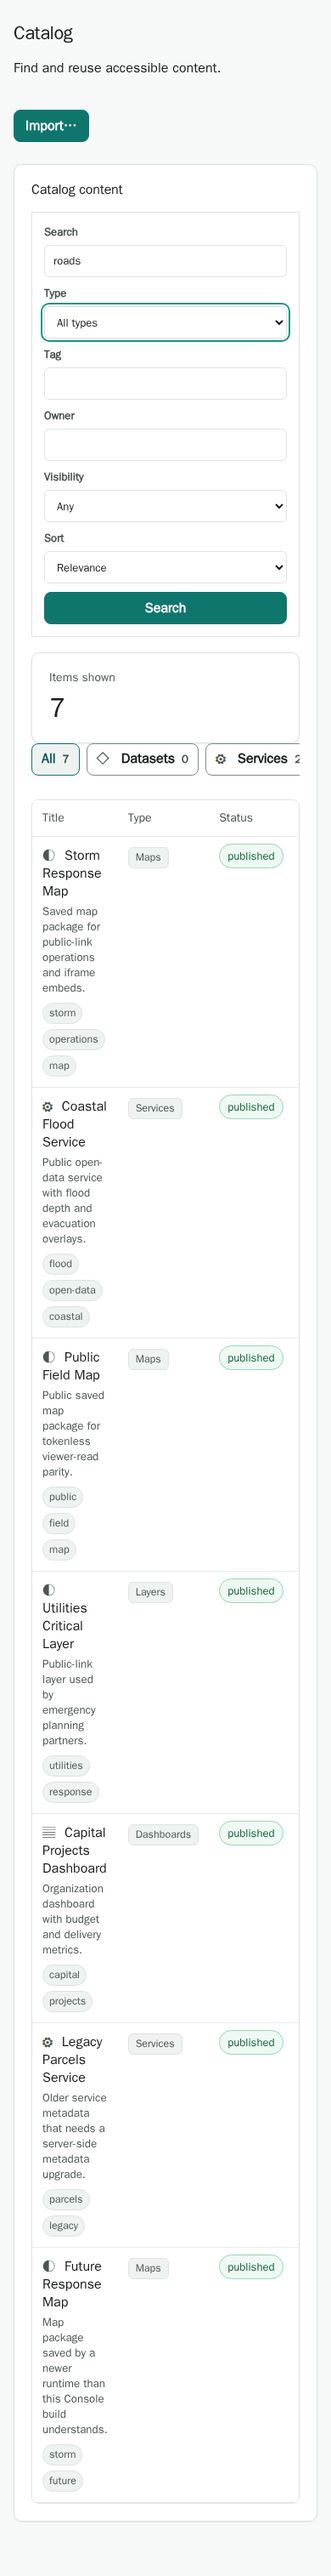
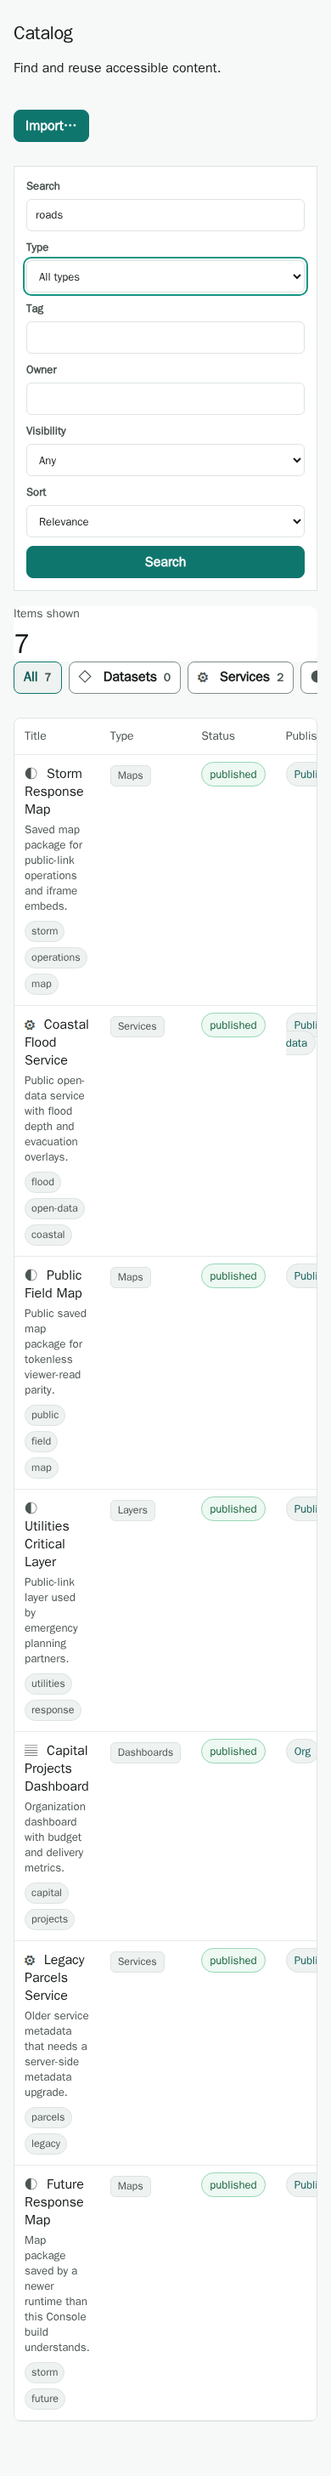
feat(console): compose catalog browse pages with quiet v4 sections

diff --git a/tests/Honua.Console.IntegrationTests/CatalogBrowseV4Tests.cs b/tests/Honua.Console.IntegrationTests/CatalogBrowseV4Tests.cs
@@ -27,7 +27,8 @@ public sealed class CatalogBrowseV4Tests
         if (enabled)
         {
             Assert.Equal(page.FindAll("tbody tr").Count.ToString(), page.Find(".console-metric-value").TextContent);
-            Assert.Equal("Catalog content", page.Find(".console-panel-heading h2").TextContent);
+            Assert.Empty(page.FindAll(".console-panel"));
+            Assert.Single(page.FindAll("section[aria-label='Catalog content']"));
             CatalogAdminPreview.CaptureV4("catalog-browse-v4", page.Markup);
         }
         else
@@ -61,7 +62,7 @@ public sealed class CatalogBrowseV4Tests
         Assert.Equal(8, page.FindAll("nav.console-tab-row a").Count);
         Assert.Contains("Item ID", page.Find(".console-detail-panel").TextContent);
         Assert.NotEmpty(page.FindAll("a.console-button-link"));
-        Assert.Single(page.FindAll("h2, h3").Where(heading => heading.TextContent == "Overview"));
+        Assert.Single(page.FindAll("h2, h3"), heading => heading.TextContent == "Overview");
         if (enabled)
         {
             Assert.Single(page.FindAll("nav a[aria-current='page']"));
